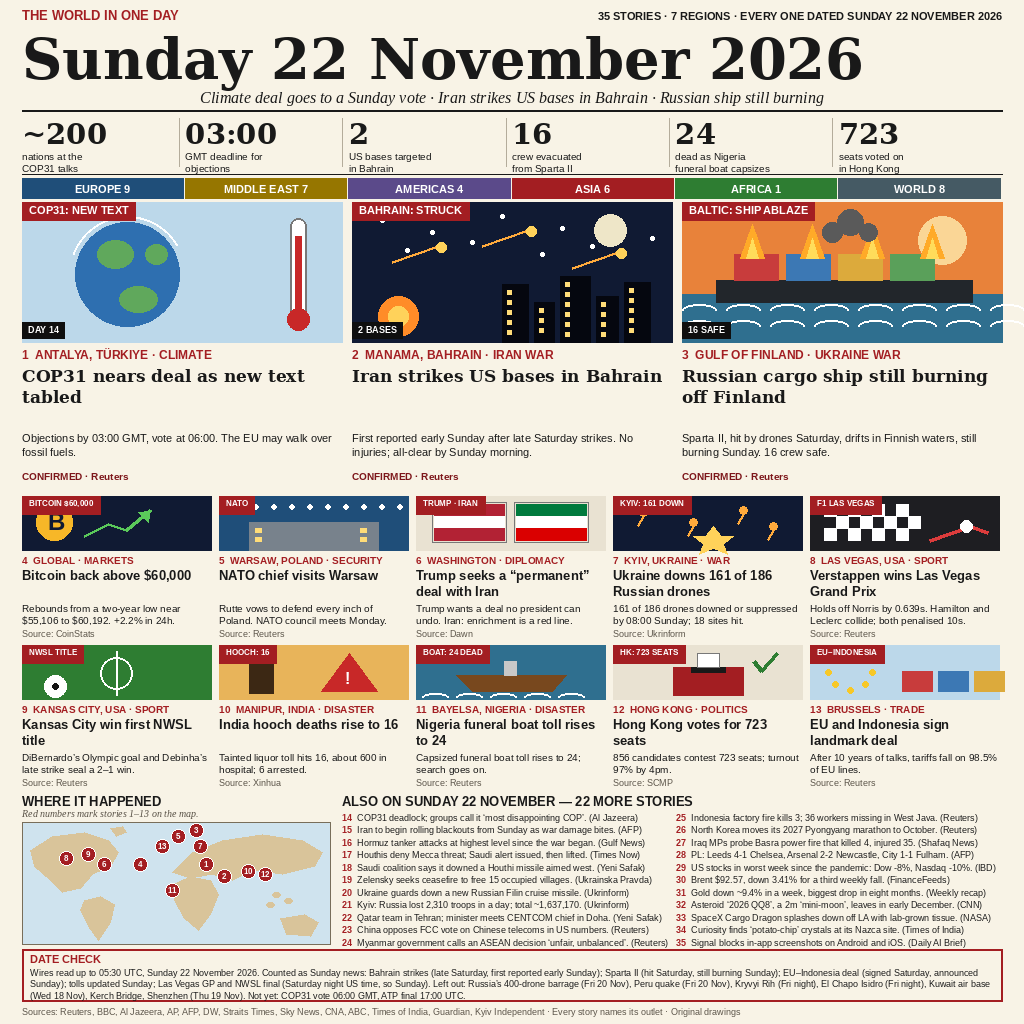
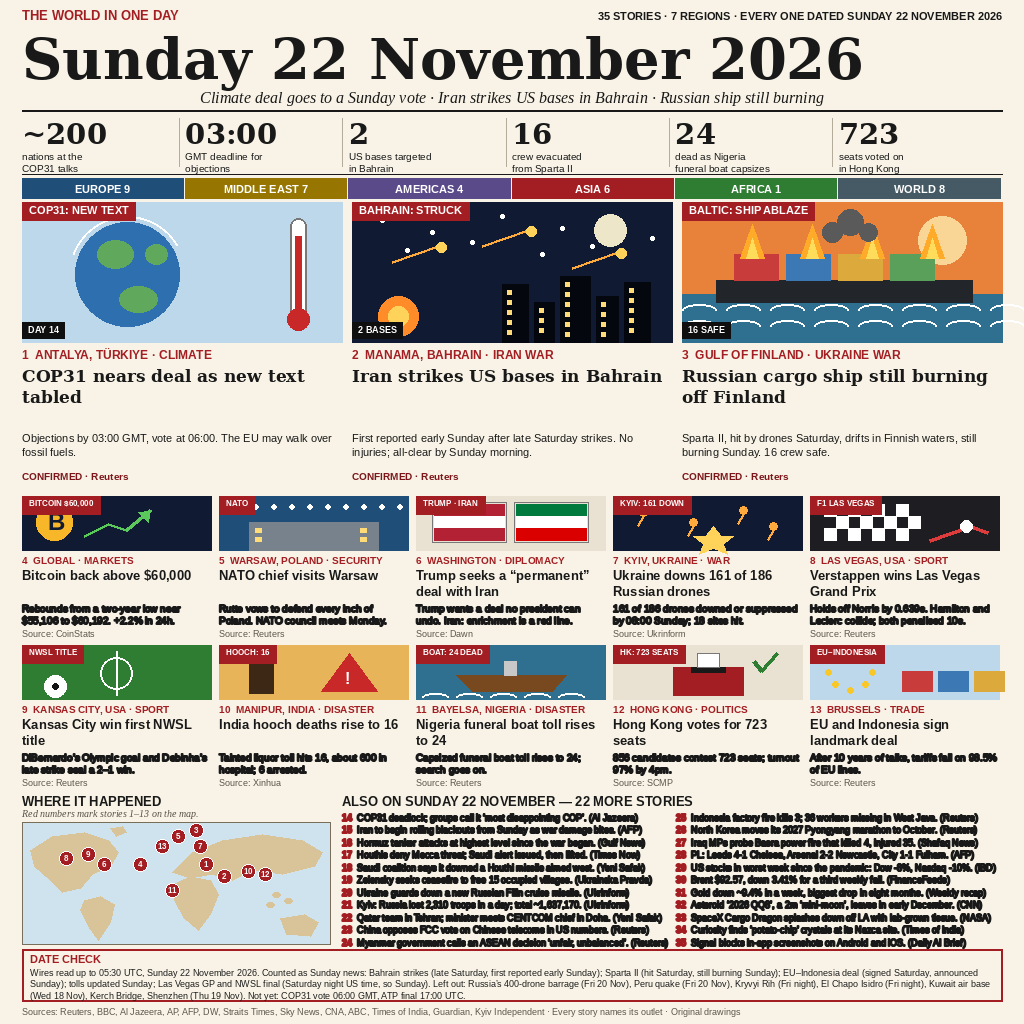
v4: bolden dense text for 300px legibility, no content change

diff --git a/gen_1122.py b/gen_1122.py
@@ -55,9 +55,12 @@ def wrap(text, font, max_w, max_lines):
     return lines[:max_lines], over
 
 
-def text_block(d, x, y, lines, font, fill, leading):
+def text_block(d, x, y, lines, font, fill, leading, stroke_width=0,
+               stroke_fill=None):
     for i, ln in enumerate(lines):
-        d.text((x, y + i * leading), ln, font=font, fill=fill)
+        d.text((x, y + i * leading), ln, font=font, fill=fill,
+               stroke_width=stroke_width,
+               stroke_fill=stroke_fill if stroke_fill is not None else fill)
 
 
 img = Image.new("RGB", (W, H), PAPER)
@@ -380,7 +383,8 @@ for row in range(2):
         slines, over = wrap(c["summ"], F(SANS, 10), sm_w, 2)
         if over:
             warns.append("small summ %d over" % c["n"])
-        text_block(d, sx, sy + 106, slines, F(SANS, 10), INK, 12.5)
+        text_block(d, sx, sy + 106, slines, F(SANS, 10), INK, 12.5,
+                   stroke_width=1, stroke_fill=INK)
         d.text((sx, sy + 132), "Source: " + c["src"], font=F(SANS, 9),
                fill=GRAY)
 
@@ -457,8 +461,9 @@ for i, (n, txt) in enumerate(BRIEFS):
     bx = 342 + col * 334
     by = 812 + (i % 11) * 12.5
     num = str(n) + "  "
-    d.text((bx, by), num, font=bnf, fill=RED)
-    d.text((bx + bnf.getlength(num), by), txt, font=bf, fill=INK)
+    d.text((bx, by), num, font=bnf, fill=RED, stroke_width=1, stroke_fill=RED)
+    d.text((bx + bnf.getlength(num), by), txt, font=bf, fill=INK,
+           stroke_width=1, stroke_fill=INK)
     w = bnf.getlength(num) + bf.getlength(txt)
     if w > 326:
         warns.append("brief %d over by %.0fpx" % (n, w - 326))
